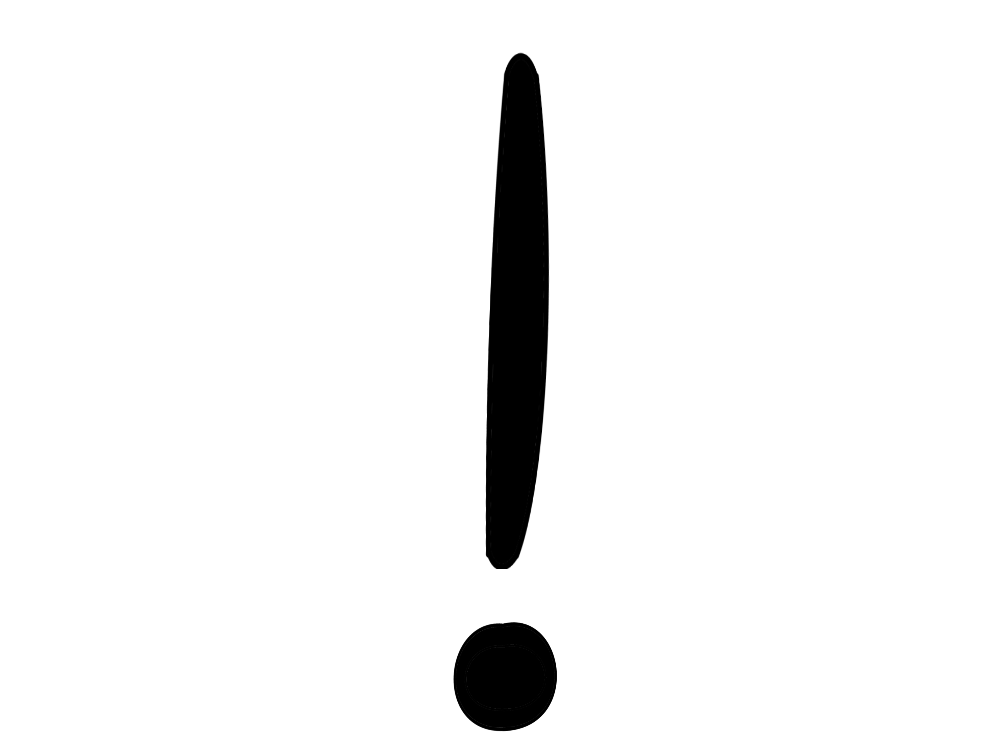
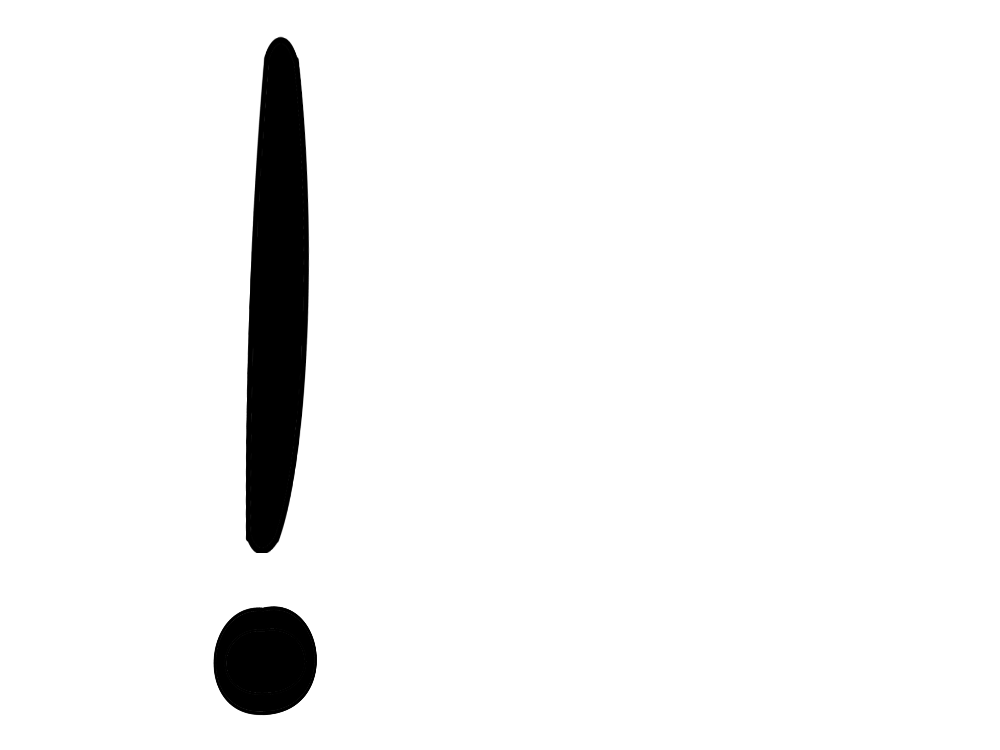
symbols implemented (as far as I can tell), sample game play controls prompt put into snake transition

diff --git a/customFont.js b/customFont.js
@@ -1,6 +1,24 @@
+//** To use the custom font fill text, please create an array where numbers and letters can be put in together in a string
+//at one index,and then symbols and punctuation get their own index.
+//Example: let yourSentenceArray = ['These are words and 1', symbolCommaImage, ' 2', symbolCommaImage, ' and 3 numbers', symbolPeriodImage];
+//Here is the current list of symbols:
+// upArrowImage
+// rightArrowImage
+// downArrowImage
+// leftArrowImage
+// symbolTildeImage ~
+// symbolExclamationPointImage !
+// symbolEmailAtImage @
+// symbolHashImage #
+// symbolDollarSignImage $
+// symbolPercentImage %
+// symbolEqualsImage =
+// symbolQuestionMarkImage ?
+// symbolPeriodImage .
+
 function customFontFillText(arrayOfCharacterTypes, fontSize, spacing, xCoordinate,yCoordinate)
 {
-  
+
   let arrayOfCharacterObjectLiterals = [];
 
   for (let arrayOfCharactersTypesIndex = 0; arrayOfCharactersTypesIndex < arrayOfCharacterTypes.length; arrayOfCharactersTypesIndex++)
@@ -18,13 +36,13 @@ function customFontFillText(arrayOfCharacterTypes, fontSize, spacing, xCoordinat
     {
       let specialCharacter = arrayOfCharacterTypes[arrayOfCharactersTypesIndex];
       arrayOfCharacterObjectLiterals.push({
-
-                                           character: specialCharacter,
-                                           imageObjectBinding: undefined
+                                           imageObjectBinding: specialCharacter
                                          });
     }
 
   }
+
+
 
   for (let arrayOfCharactersIndex = 0; arrayOfCharactersIndex < arrayOfCharacterObjectLiterals.length; arrayOfCharactersIndex++)
   {
@@ -42,20 +60,6 @@ function customFontFillText(arrayOfCharacterTypes, fontSize, spacing, xCoordinat
       }
     }
 
-    for (let arrayOfTextSymbolsIndex = 0; arrayOfTextSymbolsIndex < arrayOfTextSymbols.length; arrayOfTextSymbolsIndex++)
-    {
-      // console.log(arrayOfTextSymbols[arrayOfTextSymbolsIndex]);
-      // console.log(arrayOfCharacterObjectLiterals[arrayOfCharactersIndex].character);
-
-      if (arrayOfTextSymbols[arrayOfTextSymbolsIndex] === arrayOfCharacterObjectLiterals[arrayOfCharactersIndex].character)
-      {
-        characterObjectBindingName = 'symbol' + arrayOfCharacterObjectLiterals[arrayOfCharactersIndex].character;
-        console.log(characterObjectBindingName);
-        arrayOfCharacterObjectLiterals[arrayOfCharactersIndex].imageObjectBinding = window[characterObjectBindingName];
-        console.log(arrayOfCharacterObjectLiterals[arrayOfCharactersIndex].imageObjectBinding);
-      }
-    }
-
     for (let arrayOfTextNumbersIndex = 0; arrayOfTextNumbersIndex < arrayOfTextNumbers.length; arrayOfTextNumbersIndex++)
     {
       if (arrayOfTextNumbers[arrayOfTextNumbersIndex] === arrayOfCharacterObjectLiterals[arrayOfCharactersIndex].character)
@@ -68,7 +72,6 @@ function customFontFillText(arrayOfCharacterTypes, fontSize, spacing, xCoordinat
 
   for (let arrayOfCharactersIndex = 0; arrayOfCharactersIndex < arrayOfCharacterObjectLiterals.length; arrayOfCharactersIndex++)
   {
-    console.log(arrayOfCharacterObjectLiterals);
     if (arrayOfCharacterObjectLiterals[arrayOfCharactersIndex].imageObjectBinding === undefined)
     {
       continue;

diff --git a/specificGames/pinataSpecifics.js b/specificGames/pinataSpecifics.js
@@ -21,7 +21,7 @@ var normalize = (x,y,t) => scale(x, 1 / (length(x) || 1));
 var rnd = (minimum,maximum) => Math.floor(Math.random() * (maximum - minimum + 1)) + minimum;
 
 function pinataClick(e) {
-    console.log("Pinata game click");
+    // console.log("Pinata game click");
     //Circle(Vec2(e.pageX, e.pageY));
     // create many little candies
     for(i = 20; i--; ){
@@ -32,7 +32,7 @@ function pinataClick(e) {
 }
 
 this.init = function() {
-    console.log("Pinata game init!")
+    // console.log("Pinata game init!")
 
     var c = gameCanvasContext;
     var a = gameCanvas;
@@ -54,9 +54,9 @@ this.init = function() {
     // temp animation loop
     setInterval(
     e => {
-    
+
         if (levelIsTransitioning) return;
-        
+
         //a.width ^= 0; // clear the screen
         c.fillStyle = "rgba(150,220,255,1)";
         c.fillRect(0,0,a.width,a.height);
@@ -68,7 +68,7 @@ this.init = function() {
                 b = objects[i];
                 d = objects[j];
                 //if((b.M && b.C.y < 400) || (d.M && d.C.y < 400)){ // perf
-            
+
                 // Test collision
                 e = substract(d.C, b.C);
                 if (length(e) < b.R + d.R){
@@ -76,7 +76,7 @@ this.init = function() {
                 N = normalize(e), // normal
                 S = add(d.C, scale(normalize(scale(e, -1)), d.R)), // start
                 E = add(S, scale(N, D)) // end
-                
+
                 // Resolve collision
                 if (b.M || d.M) {
                     //  correct positions
@@ -118,13 +118,13 @@ this.init = function() {
             }
             }
         }
-        
+
         // Update scene
         b.V = add(b.V, scale(b.A, .01));
         b.C = add(b.C, scale(b.V, .01));
         b.D += b.E * .01;
         b.B += b.M ? b.D * .01 : .001;
-        
+
         // Draw
         c.save();
         c.beginPath();
@@ -134,7 +134,7 @@ this.init = function() {
         //c.lineWidth = 3;
         c.font = b.R * 1.9 + "px a";
         c.textAlign = "center";
-        
+
         if(objects[i].M) {
             //c.fillStyle = "rgba(0,0,0,0.25)";
             c.fillStyle = objects[i].color;
@@ -172,7 +172,7 @@ this.init = function() {
 // u: tangent
 // x: jT
 // b.bgColor="#333";
-var Circle = (C, R = Math.random() * 30 + 10, M = 1/R) => 
+var Circle = (C, R = Math.random() * 30 + 10, M = 1/R) =>
 
   objects.push(
     {
@@ -185,9 +185,9 @@ var Circle = (C, R = Math.random() * 30 + 10, M = 1/R) =>
     D: 0, // angle velocity
     E: 0, // angle acceleration,
     R, // radius
-    
+
     // random emojoi! works on most modern devices but not all
-    //Z: String.fromCodePoint(0x1F600 + Math.random() * 69/*56*/ | 0) 
+    //Z: String.fromCodePoint(0x1F600 + Math.random() * 69/*56*/ | 0)
 
     // random letter A-Z
     Z: String.fromCharCode(65+Math.floor(Math.random() * 26)),

diff --git a/titleScreen.js b/titleScreen.js
@@ -14,14 +14,9 @@ function drawTitleScreen()
 function drawTitleScreenHeader()
 {
   //title text
-  // gameCanvasContext.fillStyle = 'lime';
-  // gameCanvasContext.font = '30px Helvetica';
-  // gameCanvasContext.fillText("Letter Game Emulator", 200,50);
-  // gameCanvasContext.fillText("Choose A Game", 200,100);
-
-  //customFontFillText(string, fontSize, spacing, xCoordinate,yCoordinate)
-  customFontFillText("Bundle of 30 Language Games", 40, 20, 50,25);
-  customFontFillText("Choose A Game!", 25, 20, 175,100);
+  //customFontFillText(sentenceArray, fontSize, spacing, xCoordinate,yCoordinate)
+  customFontFillText(['Bundle of 30 Language Games'], 40, 20, 50,25);
+  customFontFillText(['Choose A Game ', symbolExclamationPointImage], 25, 20, 175,100);
 }
 
 function drawCellTextAndCheckForHighlightingFromMouseOver()
@@ -94,7 +89,7 @@ function handleGameCellClicks()
   if (mouseCoordinates.mouseX > 20 && mouseCoordinates.mouseX < 120 &&
       mouseCoordinates.mouseY > 150 && mouseCoordinates.mouseY < 250)
   {
-    console.log('snake cell clicked');
+    // console.log('snake cell clicked');
     playerShouldBePlayingSnake = true;
     playerShouldSeeTitleScreen = false;
     gameInterval.reset(snakeGameFrameRate);
@@ -197,7 +192,7 @@ function handleGameCellClicks()
       {
         levelIsTransitioning = true;
         transitionIsFadingIn = true;
-        console.log(levelIsTransitioning);
+        // console.log(levelIsTransitioning);
         playARandomSoundInAMultisoundArray(arrayOfUIButtonSounds);
         transitionToLevelMusic1.play();
         gameCanvasContext.globalAlpha = 0.0;

diff --git a/transitionScreen.js b/transitionScreen.js
@@ -2,7 +2,7 @@ var levelIsTransitioning = false;
 var transitionIsFadingIn = false;
 var transitionIsFadingOut = false;
 
-function drawTransitionScreen(specificTransitionScreenText)
+function drawTransitionScreen(arraysOfGameSpecificCustomFontFillTextsForTransitionScreen)
 {
 
   let transitionScreenVisualFadeLevel = gameCanvasContext.globalAlpha;
@@ -22,15 +22,11 @@ function drawTransitionScreen(specificTransitionScreenText)
     gameCanvasContext.globalAlpha = transitionScreenVisualFadeLevel;
   }
 
-
   gameCanvasContext.fillStyle = 'orange';
   gameCanvasContext.fillRect(0,0, 640,700);
 
-  //customFontFillText(string, fontSize, spacing, xCoordinate,yCoordinate)
-  customFontFillText('Awesometastical Placeholder', 20, 15, 0,310);
-  customFontFillText('Transition Screen...', 20, 15, 0,350);
-  customFontFillText('Woooooaaaahhh!!!', 20, 15, 0, 390);
+  if (playerShouldBePlayingSnake)
+  {
+    drawSnakeTransitionText();
+  }
 }
-
-const transitionToSnakeTextLine1 = 'Eat the answer!';
-const transitionToSnakeTextLine2 = '';

diff --git a/specificGames/snakeSpecifics.js b/specificGames/snakeSpecifics.js
@@ -92,3 +92,13 @@ function populateArrayOfLettersForSnake()
   arrayOfLetters.push({name:'m',xCoordinate:Math.floor(Math.random()*640),yCoordinate:Math.floor(Math.random()*675)});
   arrayOfLetters.push({name:'n',xCoordinate:Math.floor(Math.random()*640),yCoordinate:Math.floor(Math.random()*675)});
 }
+
+function drawSnakeTransitionText()
+{
+  //customFontFillText(sentenceArray, fontSize, spacing, xCoordinate,yCoordinate)
+  customFontFillText(['Eat the answers', symbolExclamationPointImage], 60,30, 100,50);
+  customFontFillText([upArrowImage, ' ', symbolEqualsImage, ' move up'], 30,15, 210,200);
+  customFontFillText([rightArrowImage, ' ', symbolEqualsImage, ' move right'], 30,15, 350,350);
+  customFontFillText([downArrowImage, ' ', symbolEqualsImage, ' move down'], 30,15, 200,500);
+  customFontFillText([leftArrowImage, ' ', symbolEqualsImage, ' move left'], 30,15, 50,350);
+}

diff --git a/letters.js b/letters.js
@@ -19,10 +19,10 @@ function setOrResetCorrectLetter()
     currentCorrectLetter = 'n';
   }
   correctLetterAudioTag.src = "audio/" + currentCorrectLetter + '.mp3';
-  console.log('level is transitioning' + levelIsTransitioning);
+  // console.log('level is transitioning' + levelIsTransitioning);
   if (!levelIsTransitioning)
   {
-    console.log("level is transitioning " + levelIsTransitioning);
+    // console.log("level is transitioning " + levelIsTransitioning);
     playCorrectLetterAudioTag();
   }
 }

diff --git a/imageLoading.js b/imageLoading.js
@@ -112,7 +112,7 @@ function loadImages()
   arrayOfImages.push({imageObjectBinding: symbolHashImage, theFile: 'images/Custom Font/pngs/symbols/symbolHash.png'});
   arrayOfImages.push({imageObjectBinding: symbolQuestionMarkImage, theFile: 'images/Custom Font/pngs/symbols/symbolQuestionMark.png'});
 
-  console.log(arrayOfImages);
+  // console.log(arrayOfImages);
 
   numberOfImagesToLoad = arrayOfImages.length;
 

diff --git a/dualLoadingSplashScreen.js b/dualLoadingSplashScreen.js
@@ -6,6 +6,7 @@ function promptPlayerForClickAfterLoading()
   // gameCanvasContext.fillStyle = 'lime';
   // gameCanvasContext.font = '30px Helvetica';
   // gameCanvasContext.fillText("Downloading done. Click to start", 0,250);
+  //
   let sentenceArray1 = ['Downloading done', symbolPeriodImage];
   customFontFillText(sentenceArray1, 30, 20, 150, 250);
 

diff --git a/main.js b/main.js
@@ -1,4 +1,5 @@
 var gameCanvas, gameCanvasContext, statsCanvas, statsCanvasContext;
+console.log('anything');
 
 window.onload = function()
 {
